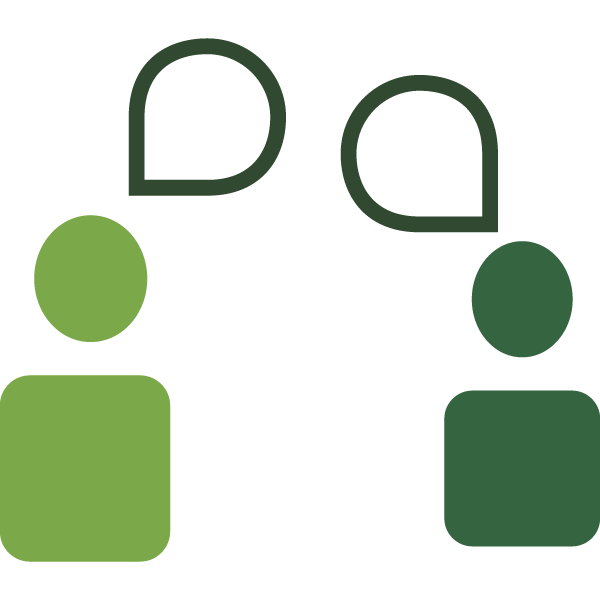
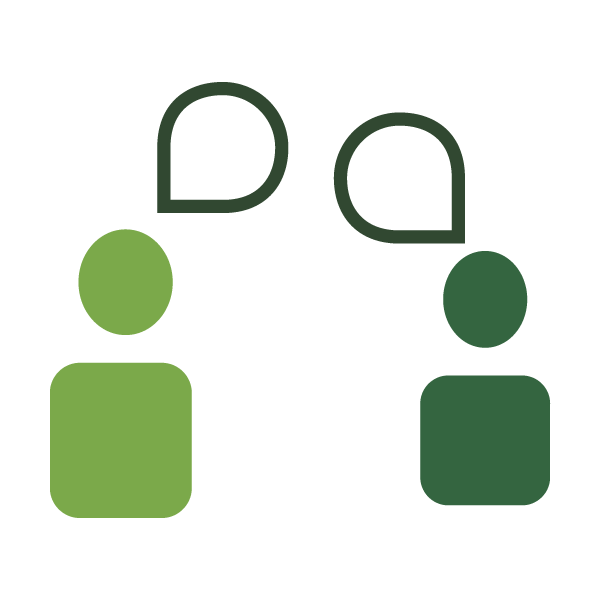
finalized images

diff --git a/packages/newspringchurchapp/src/ui/Onboarding/index.js b/packages/newspringchurchapp/src/ui/Onboarding/index.js
@@ -17,13 +17,14 @@ import {
 import { requestPushPermissions } from '@apollosproject/ui-notifications';
 
 const ImageContainer = styled({
-  justifyContent: 'center',
+  justifyContent: 'flex-end',
+  height: '50%',
 })(View);
 
 const StyledImage = styled({
-  width: '100%',
-  height: '50%',
   resizeMode: 'contain',
+  height: '100%',
+  width: '100%',
 })(Image);
 
 function Onboarding({ navigation }) {
